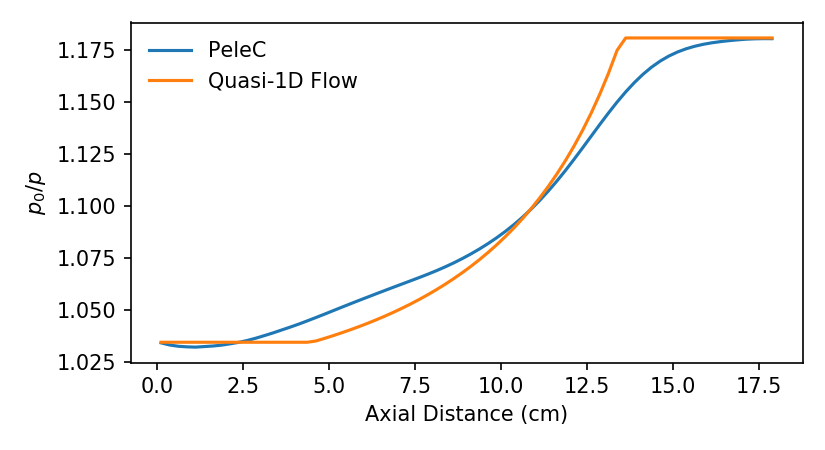
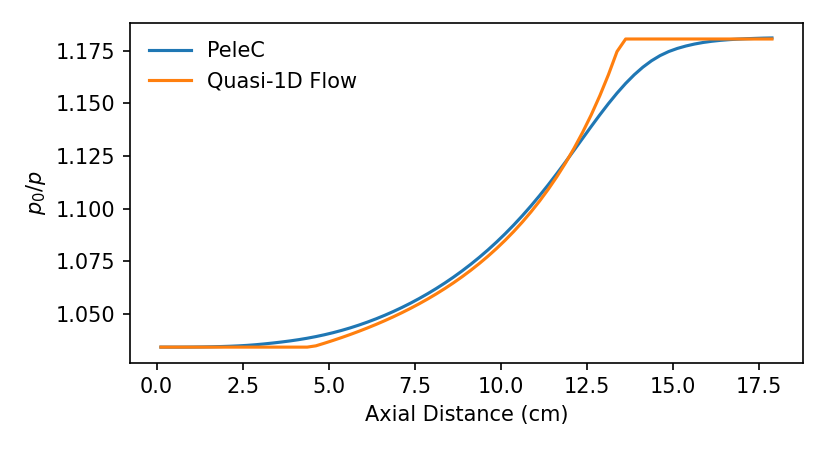
update docs for converging nozzle with sponges

diff --git a/Docs/sphinx/ebverification/ConvergingNozzle/README.rst b/Docs/sphinx/ebverification/ConvergingNozzle/README.rst
@@ -10,6 +10,7 @@ This is a round inviscid converging nozzle case that can be compared against ana
 relationships for quasi-one dimensional isentropic compressible flow. The nozzle is
 set up with an inlet Mach number of 0.22, and area ratio of 2, and an
 outlet pressure of 1 bar. The case uses the gamma law equation of state with :math:`\gamma=1.4`.
+Rudimentary sponge zones are added at the inlet and outlet to absorb spurious reflected waves.
 
 Property Comparisons to Quasi-1D Flow
 #####################################
@@ -79,7 +80,7 @@ Running study
     done
 
     # change path to AMReX fextract utility executable as appropriate
-    ../../../Submodules/AMReX/Tools/Plotfile/fextract.gnu.ex run_01/plt24000
+    ../../../Submodules/PelePhysics/Submodules/amrex/Tools/Plotfile/fextract.gnu.ex run_01/plt24000
 
     # Requires: Python3 Numpy Scipy Pandas Matplotlib
     python plot.py 
